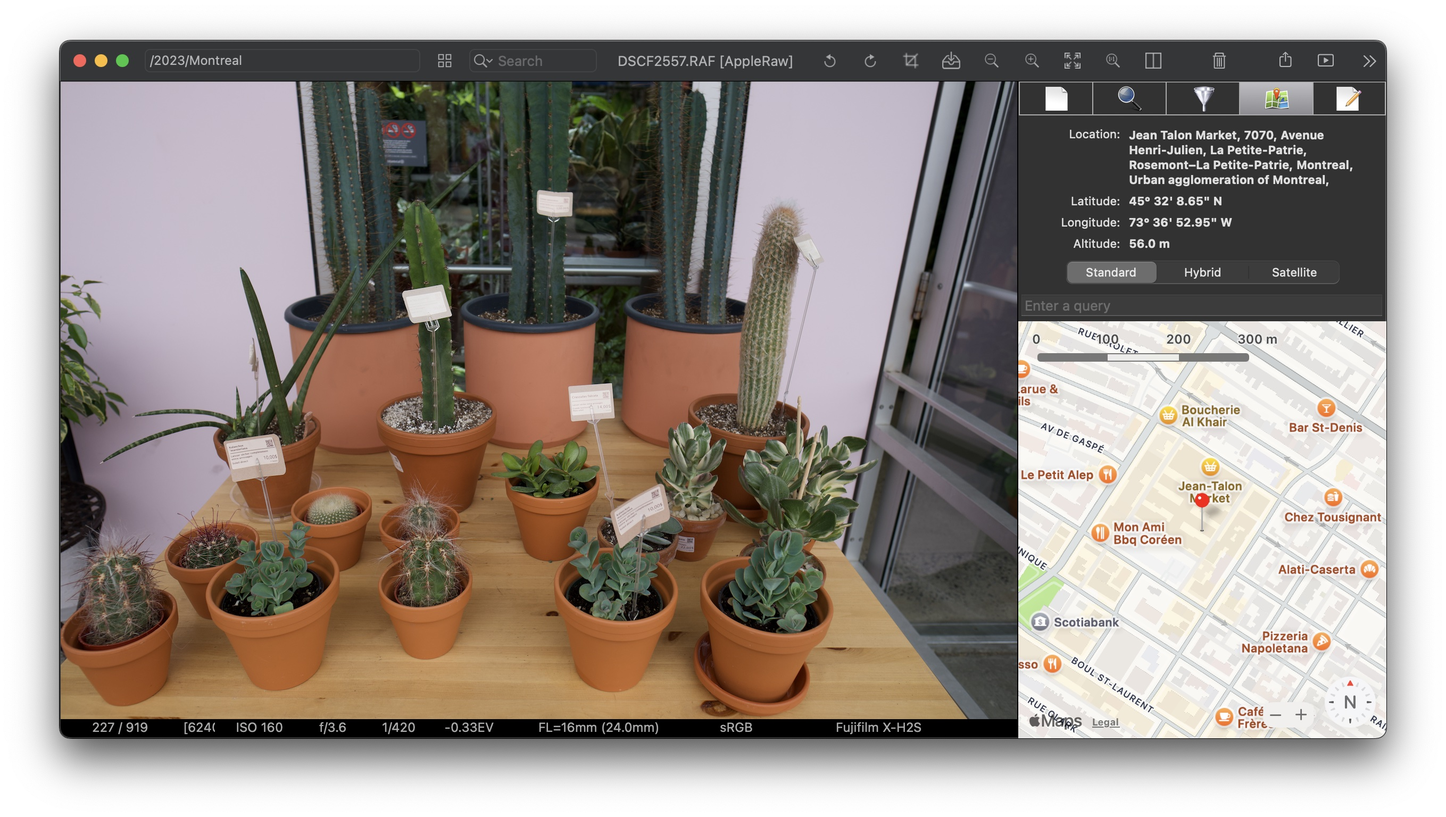
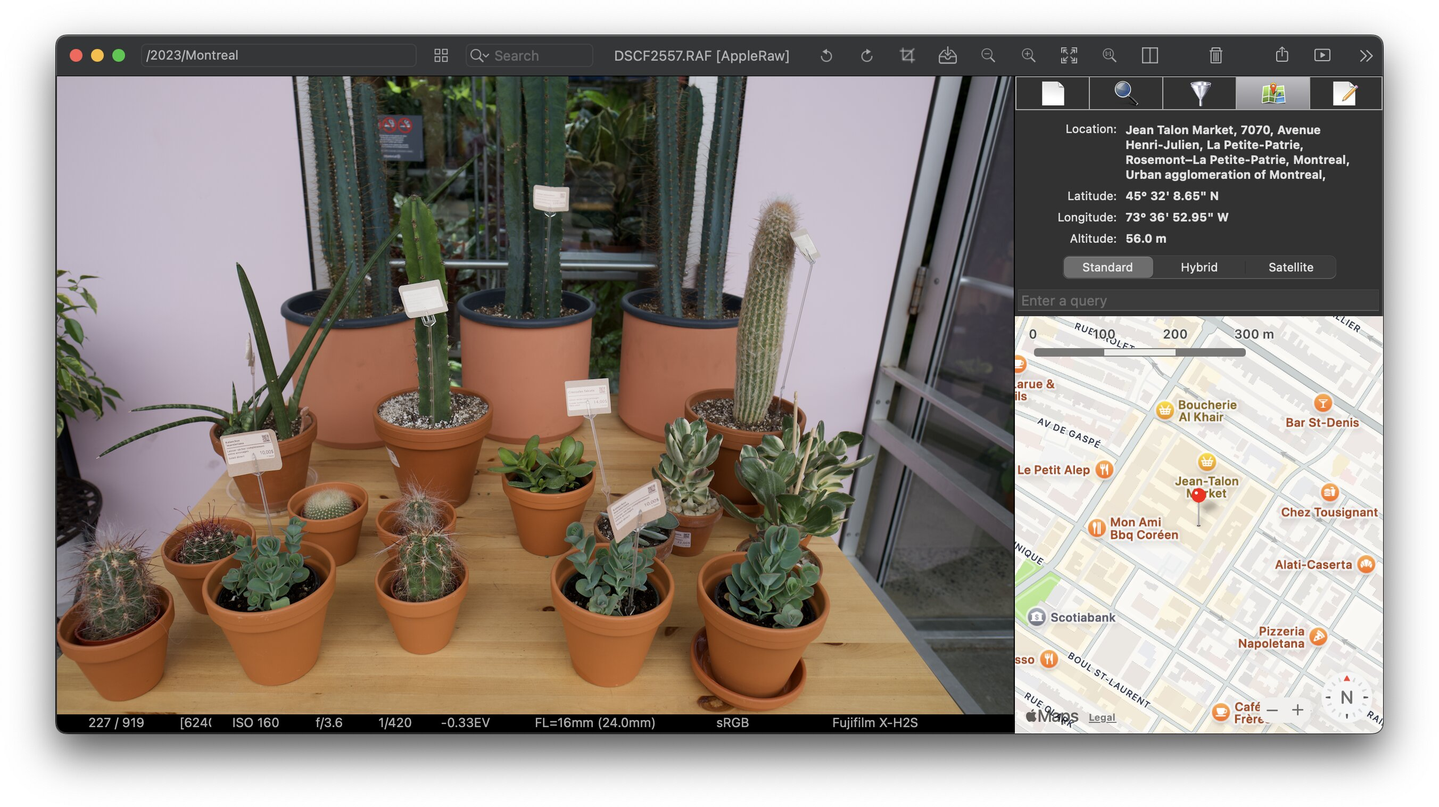
Update feature descriptions + trim transparent screenshots
- AF Points: add face detection from camera metadata
- EXIF: double-click inline editing
- Tagging: macOS Finder color tags + XMP labels
- Trimmed af-point & builtin-maps screenshots (removed transparent padding)

diff --git a/apolloone.html b/apolloone.html
@@ -49,7 +49,7 @@
 <section class="feature feature-stacked">
     <div class="feature-text">
         <h2>Autofocus Point Display</h2>
-        <p>See exactly where your camera focused. ApolloOne reads <strong>AF point data</strong> embedded in your RAW and JPEG files and overlays them directly on the image — so you can instantly verify focus accuracy without zooming in. A feature no other viewer offers.</p>
+        <p>See exactly where your camera focused. ApolloOne reads <strong>AF point data</strong> embedded in your RAW and JPEG files and overlays them directly on the image — so you can instantly verify focus accuracy without zooming in. It also displays <strong>faces detected</strong> by the camera from embedded metadata. A feature no other viewer offers.</p>
     </div>
     <div class="feature-image">
         <img src="images/apolloone-af-point.jpg" alt="ApolloOne autofocus point overlay on image" loading="lazy">
@@ -71,7 +71,7 @@
 <section class="feature feature-stacked">
     <div class="feature-text">
         <h2>Deep EXIF &amp; Metadata</h2>
-        <p>Every detail your camera records, at a glance. A searchable metadata inspector shows <strong>EXIF, GPS, lens info, and more</strong> — alongside a full Places browser for navigating your photo library by folder or external drive. Edit EXIF and IPTC fields directly, or batch-tag with XMP-compatible workflows.</p>
+        <p>Every detail your camera records, at a glance. A searchable metadata inspector shows <strong>EXIF, GPS, lens info, and more</strong> — alongside a full Places browser for navigating your photo library by folder or external drive. <strong>Double-click any editable field</strong> to change it on the fly — no separate dialog needed.</p>
     </div>
     <div class="feature-image">
         <img src="images/apolloone-exif-viewer.jpg" alt="ApolloOne EXIF metadata inspector with Places browser" loading="lazy">
@@ -82,7 +82,7 @@
 <section class="feature feature-stacked">
     <div class="feature-text">
         <h2>Tagging, Rating &amp; Keywords</h2>
-        <p>Organize your library the way you think. Add <strong>titles, descriptions, keywords, locations</strong>, and copyright — all written as <strong>XMP-standard metadata</strong> directly into the file. Color-label and <strong>5-star rate</strong> images for quick culling, then copy and paste metadata across files in batch.</p>
+        <p>Organize your library the way you think. Add <strong>titles, descriptions, keywords, locations</strong>, and copyright — all written as <strong>XMP-standard metadata</strong> directly into the file. <strong>5-star rate</strong> and color-label images for quick culling, with support for both XMP labels and <strong>macOS Finder color tags</strong> — so your tags stay visible in Finder too. Copy and paste metadata across files in batch.</p>
     </div>
     <div class="feature-image">
         <img src="images/apolloone-user-metadata.jpg" alt="ApolloOne metadata editor with keywords, star rating, and color labels" loading="lazy">
